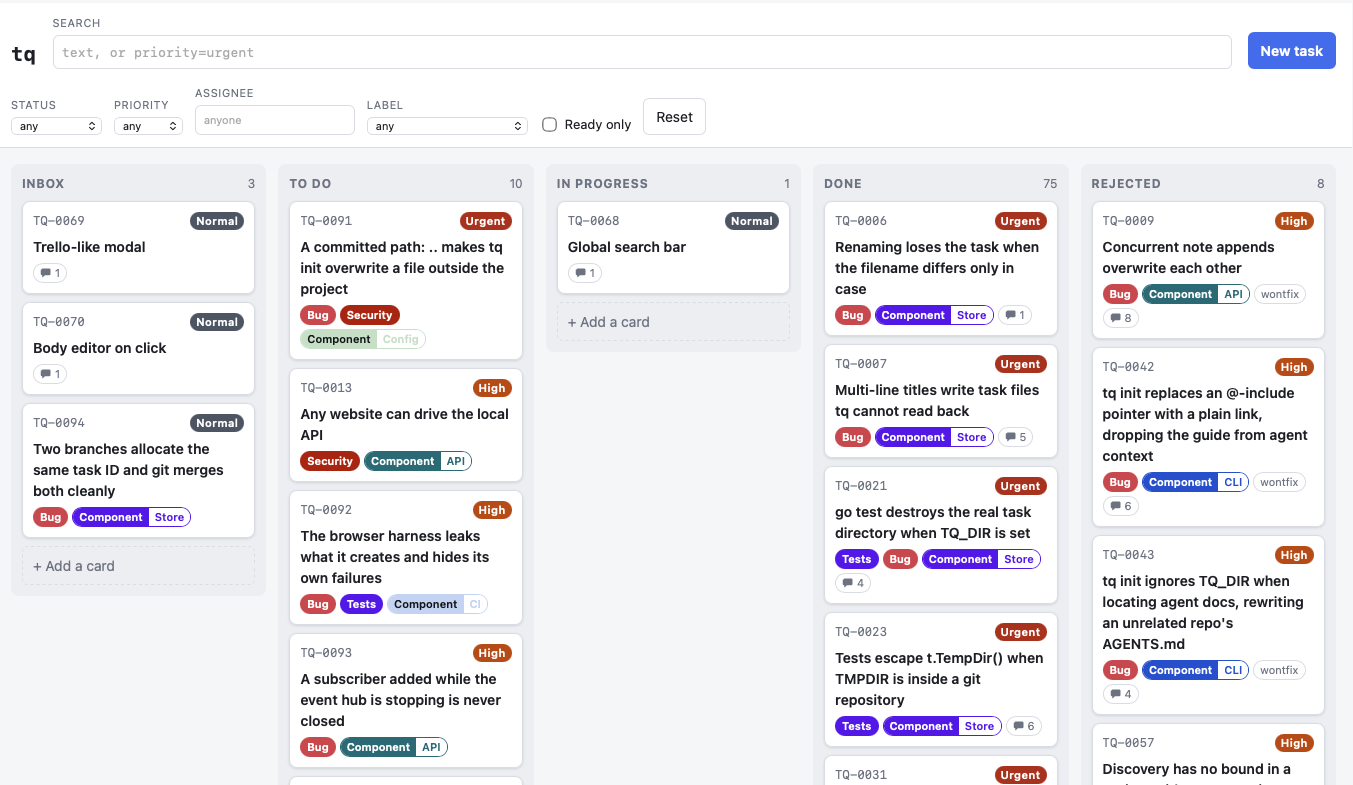
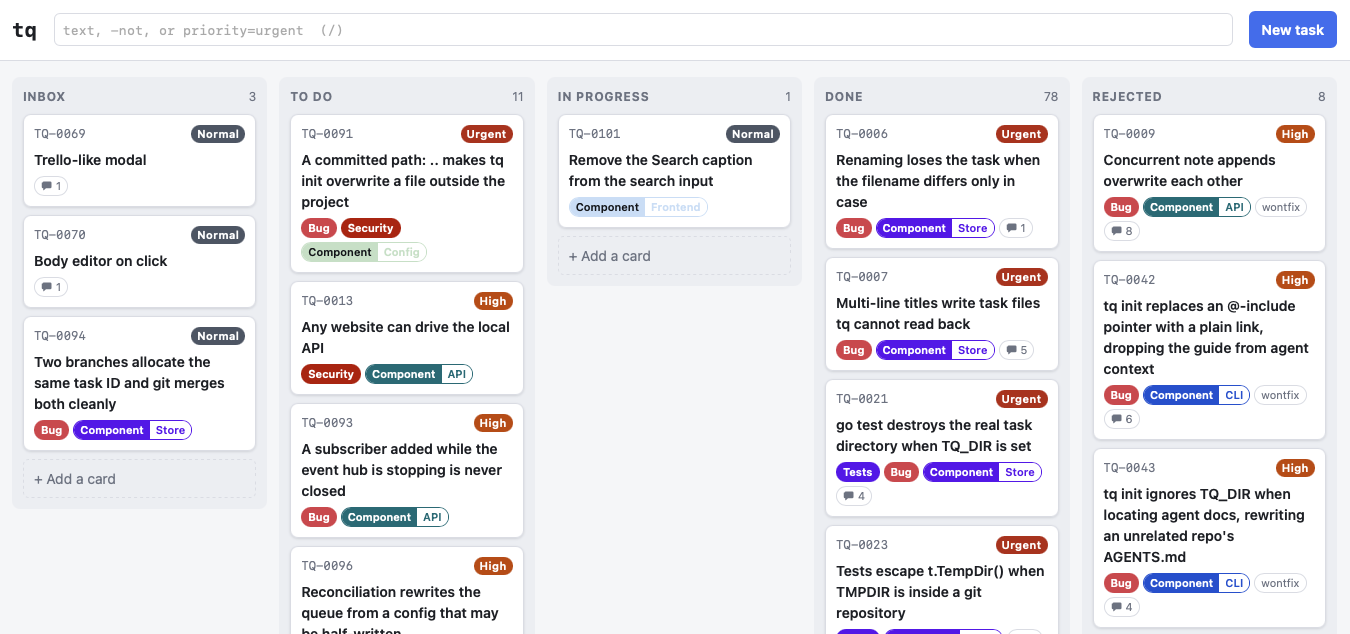
refactor(web): drop the Search caption from the search input (TQ-0101)
The placeholder already says what the box is for. Keep aria-label so it
stays named for assistive tech, and refresh the README screenshot to match.

diff --git a/internal/web/public/app.js b/internal/web/public/app.js
@@ -6967,10 +6967,6 @@ var SearchBar_default = /* @__PURE__ */ defineComponent({
     onBeforeUnmount(() => document.removeEventListener("keydown", onShortcut));
     return (_ctx, _cache) => {
       return openBlock(), createElementBlock("div", _hoisted_18, [
-        _cache[2] || (_cache[2] = createBaseVNode("label", {
-          class: "search-label",
-          for: "search-query"
-        }, "Search", -1)),
         createBaseVNode("div", _hoisted_25, [
           createBaseVNode("input", {
             id: "search-query",
@@ -6983,6 +6979,7 @@ var SearchBar_default = /* @__PURE__ */ defineComponent({
             placeholder: "text, -not, or priority=urgent  (/)",
             autocomplete: "off",
             spellcheck: "false",
+            "aria-label": "Search",
             "aria-autocomplete": "list",
             "aria-controls": "search-suggestions",
             "aria-expanded": showing.value,

diff --git a/frontend/components/SearchBar.vue b/frontend/components/SearchBar.vue
@@ -236,8 +236,6 @@ onBeforeUnmount(() => document.removeEventListener("keydown", onShortcut));
 
 <template>
   <div class="search">
-    <label class="search-label" for="search-query">Search</label>
-
     <div class="search-box">
       <input
         id="search-query"
@@ -249,6 +247,7 @@ onBeforeUnmount(() => document.removeEventListener("keydown", onShortcut));
         placeholder="text, -not, or priority=urgent  (/)"
         autocomplete="off"
         spellcheck="false"
+        aria-label="Search"
         aria-autocomplete="list"
         aria-controls="search-suggestions"
         :aria-expanded="showing"

diff --git a/frontend/style.css b/frontend/style.css
@@ -52,7 +52,7 @@ body {
 .topbar {
   display: flex;
   flex-wrap: wrap;
-  align-items: flex-end;
+  align-items: center;
   gap: 16px;
   padding: 12px 16px;
   background: var(--surface);
@@ -72,9 +72,6 @@ body {
    before it goes below min-width. */
 .search {
   position: relative;
-  display: flex;
-  flex-direction: column;
-  gap: 4px;
   flex: 1 1 320px;
   min-width: 220px;
 }

diff --git a/internal/web/public/style.css b/internal/web/public/style.css
@@ -52,7 +52,7 @@ body {
 .topbar {
   display: flex;
   flex-wrap: wrap;
-  align-items: flex-end;
+  align-items: center;
   gap: 16px;
   padding: 12px 16px;
   background: var(--surface);
@@ -72,9 +72,6 @@ body {
    before it goes below min-width. */
 .search {
   position: relative;
-  display: flex;
-  flex-direction: column;
-  gap: 4px;
   flex: 1 1 320px;
   min-width: 220px;
 }

diff --git a/.tasks/TQ-0101-remove-the-search-caption-from-the-search-input.md b/.tasks/TQ-0101-remove-the-search-caption-from-the-search-input.md
@@ -1,0 +1,22 @@
+---
+id: TQ-0101
+title: Remove the Search caption from the search input
+status: done
+priority: normal
+labels:
+  - component/frontend
+created: 2026-08-29T10:09:15+02:00
+updated: 2026-08-29T10:11:23+02:00
+---
+
+The search box in the top bar still carries a visible Search label above the input. The placeholder already says what the line is for, and the caption makes the bar taller than the brand and the New task button for no remaining reason.
+
+Drop the visible label. Keep an accessible name on the input so the box is still named for assistive tech.
+
+---
+
+## Notes
+
+- 2026-08-29T10:11:23+02:00 — Dropped the visible Search caption above the input. The box keeps aria-label="Search" so it is still named for assistive tech. The top bar now aligns to the centre, since the caption was the only reason it used flex-end.
+
+  No new test, as asked.
